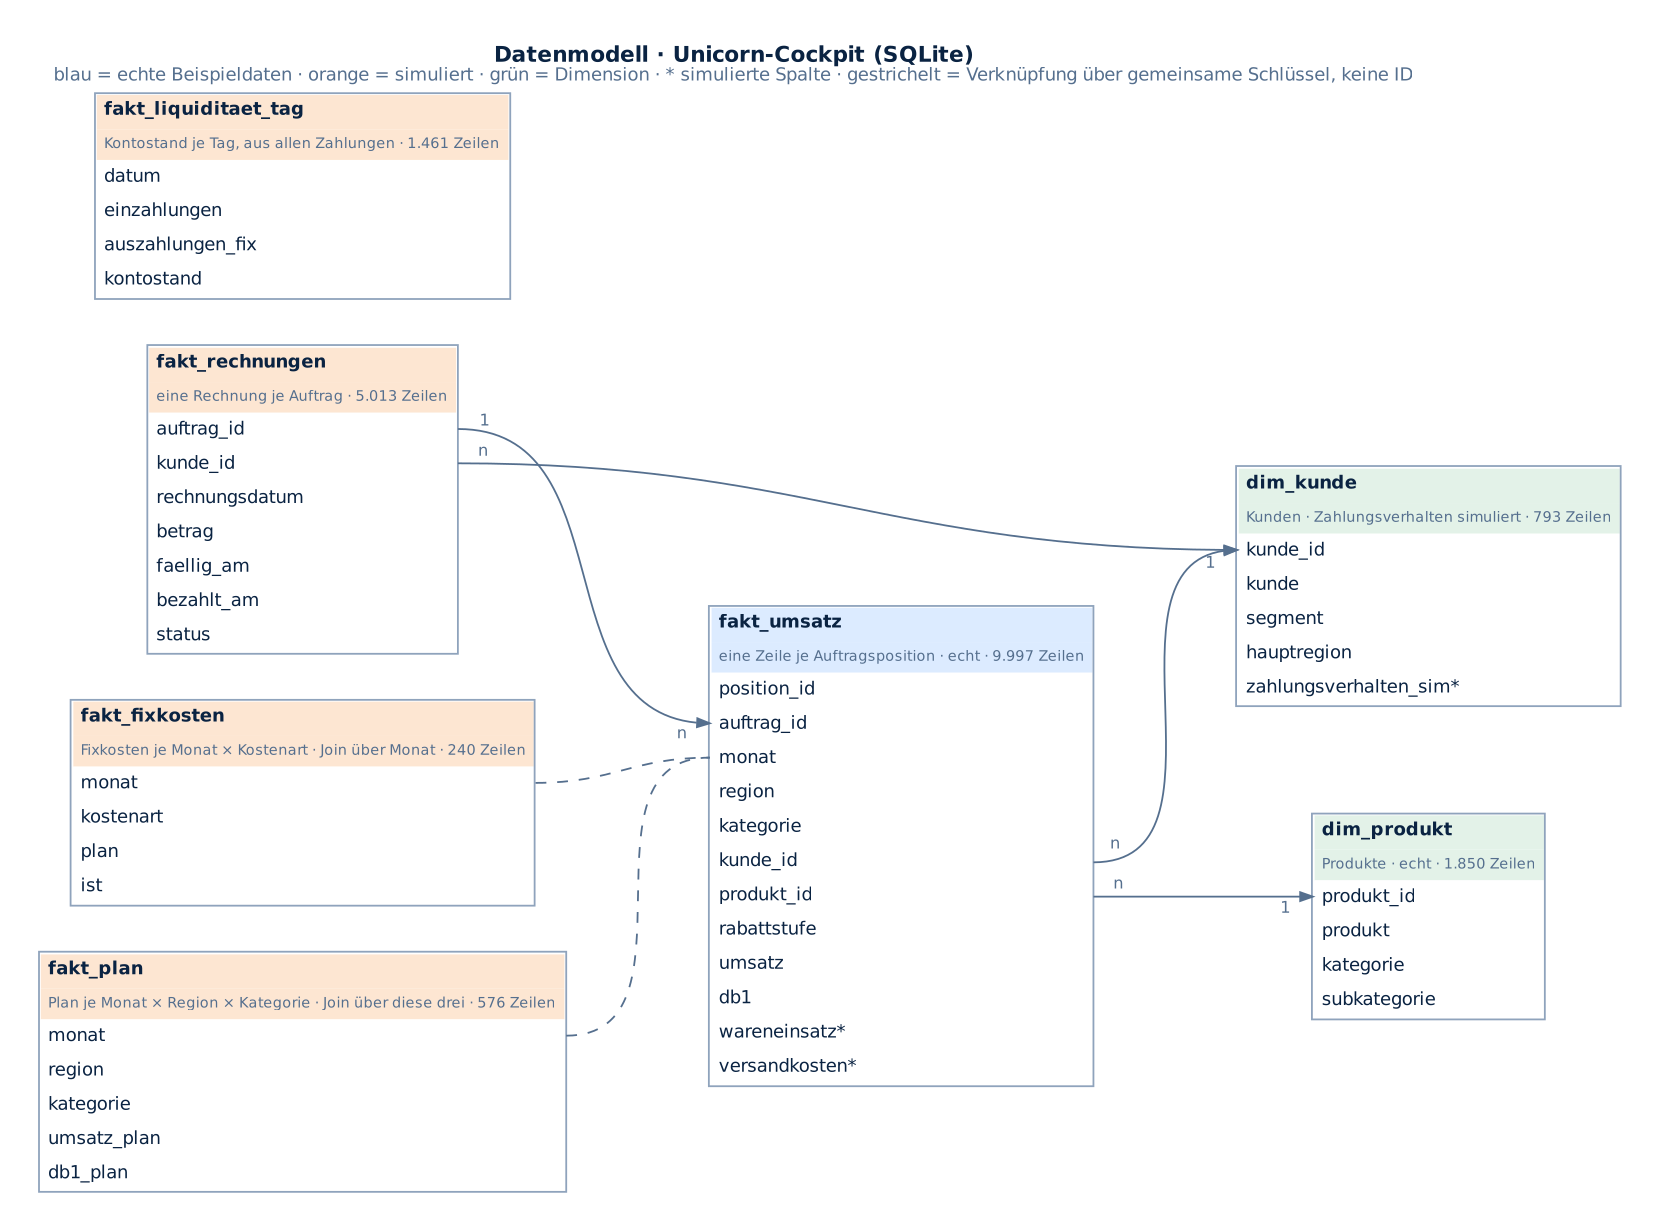
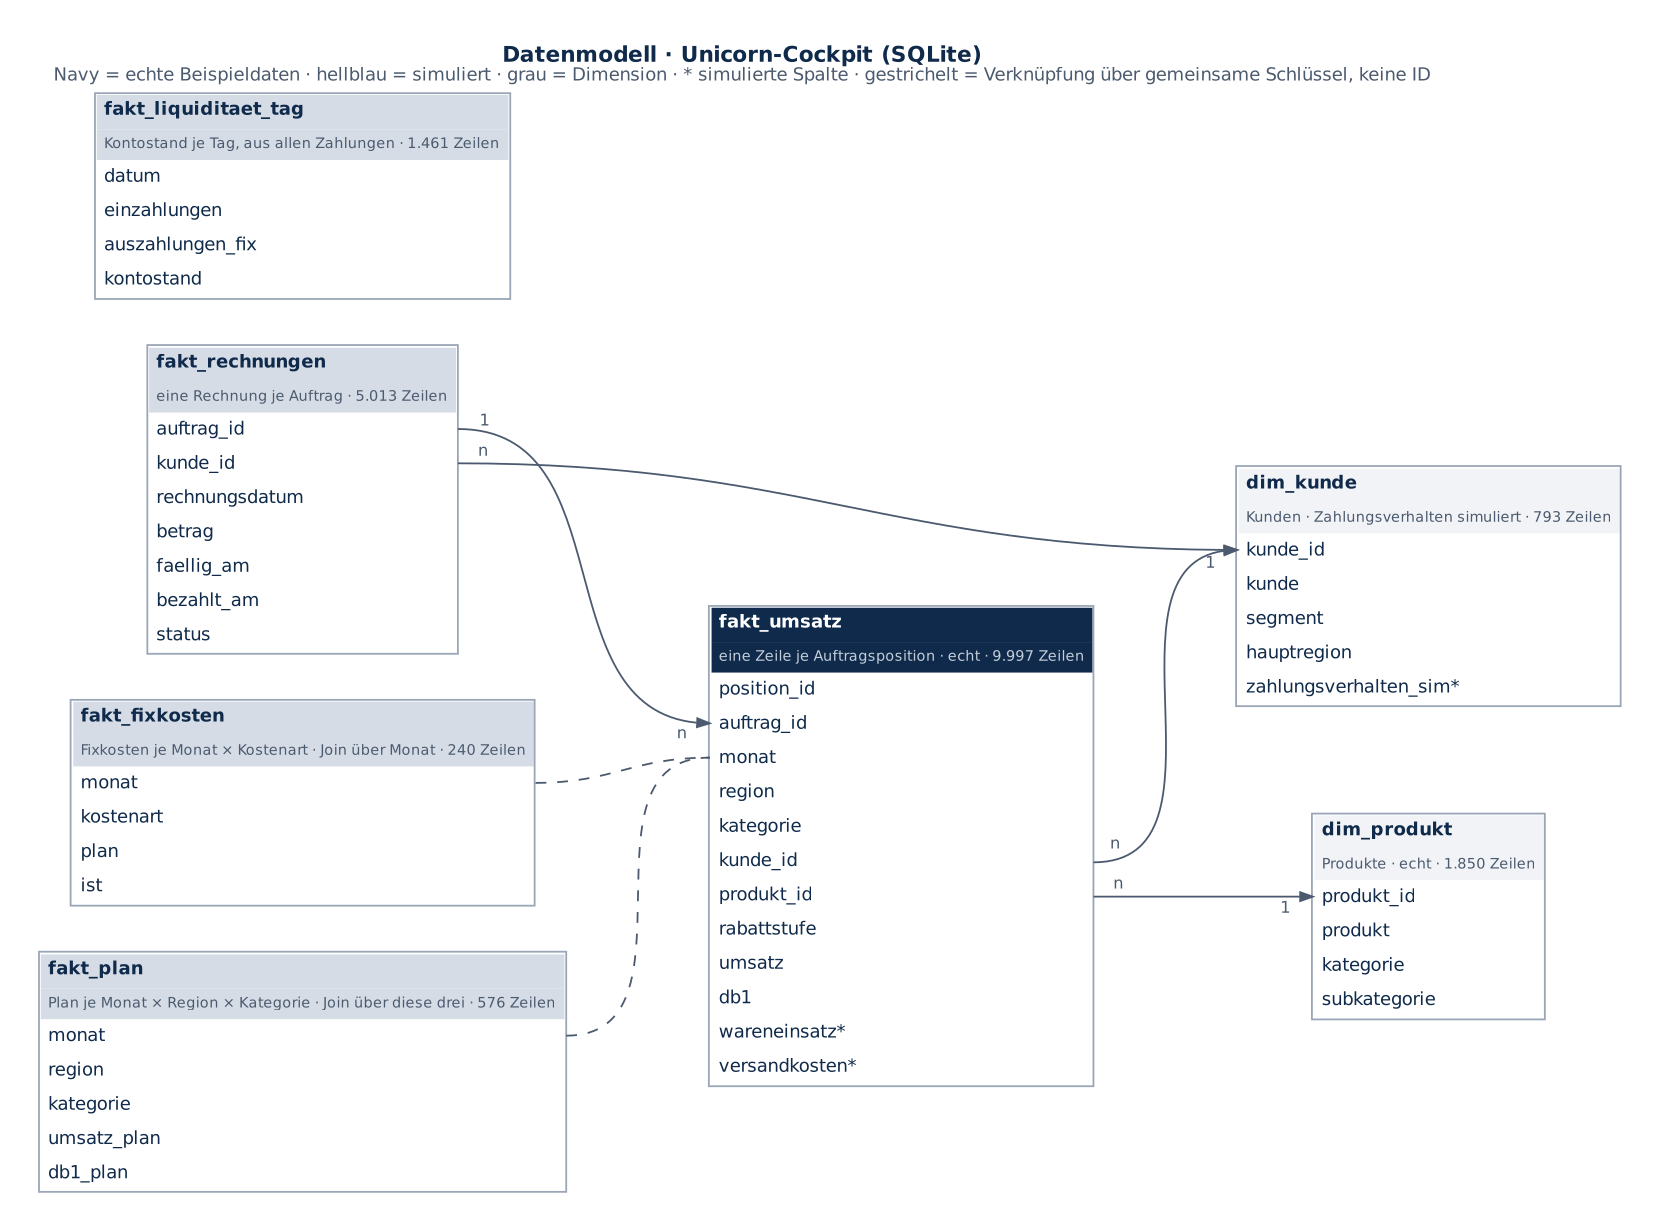
Datenmodell und Vorschaubild im Navy-Design
- docs/erd.py: Kopfzeilen Navy (echt), hellblau (simuliert), grau (Dimension); Legende angepasst
- datenmodell_de/en.png neu erzeugt
- social_preview.png mit aktuellem Überblick-Screenshot und ruhigem Navy-Hintergrund

Claude-Session: https://claude.ai/code/session_0162dXhNYju1JhCPYcZMk4fs

diff --git a/docs/erd.py b/docs/erd.py
@@ -8,7 +8,8 @@ HIER = Path(__file__).resolve().parent
 sys.path.insert(0, str(HIER.parent))
 import logik as L  # noqa: E402
 
-ECHT, SIM, DIM = "#DCEBFF", "#FDE6D2", "#E3F2E8"
+ECHT, SIM, DIM = "#0F2A4A", "#D5DCE6", "#F1F3F6"   # Navy-Design: echt dunkel, simuliert hell, Dimension grau
+KOPF_TEXT = {ECHT: ("white", "#C3CDDA")}          # Titel- und Untertitelfarbe im dunklen Kopf
 TAB = {   # Tabelle: (Farbe, Text DE, Text EN, gezeigte Spalten)
     "fakt_umsatz": (ECHT, "eine Zeile je Auftragsposition · echt", "one row per order line · real",
                     ["position_id", "auftrag_id", "monat", "region", "kategorie", "kunde_id", "produkt_id",
@@ -38,21 +39,22 @@ KANTEN = [   # (von, Spalte, nach, Spalte, Beschriftung DE, EN, gestrichelt = lo
 def dot(sprache: str, zeilen: dict) -> str:
     en = sprache == "en"
     out = ['digraph G {', 'graph [rankdir=LR, bgcolor="white", pad=0.3, nodesep=0.35, ranksep=1.1, '
-           'fontname="Helvetica", fontsize=12, fontcolor="#0A2342", labelloc=t, labeljust=l, label=<'
-           + ("<b>Data model · Unicorn cockpit (SQLite)</b><br/><font point-size='10' color='#556F8E'>"
-              "blue = real sample data · orange = simulated · green = dimension · * simulated column · "
+           'fontname="Helvetica", fontsize=12, fontcolor="#0F2A4A", labelloc=t, labeljust=l, label=<'
+           + ("<b>Data model · Unicorn cockpit (SQLite)</b><br/><font point-size='10' color='#4B5A6E'>"
+              "navy = real sample data · light blue = simulated · grey = dimension · * simulated column · "
               "dashed = join on shared keys, no ID</font>" if en else
-              "<b>Datenmodell · Unicorn-Cockpit (SQLite)</b><br/><font point-size='10' color='#556F8E'>"
-              "blau = echte Beispieldaten · orange = simuliert · grün = Dimension · * simulierte Spalte · "
+              "<b>Datenmodell · Unicorn-Cockpit (SQLite)</b><br/><font point-size='10' color='#4B5A6E'>"
+              "Navy = echte Beispieldaten · hellblau = simuliert · grau = Dimension · * simulierte Spalte · "
               "gestrichelt = Verknüpfung über gemeinsame Schlüssel, keine ID</font>") + '>];',
-           'node [shape=plain, fontname="Helvetica", fontsize=10, fontcolor="#0A2342"];',
-           'edge [color="#556F8E", fontname="Helvetica", fontsize=9, fontcolor="#556F8E", arrowsize=0.7];']
+           'node [shape=plain, fontname="Helvetica", fontsize=10, fontcolor="#0F2A4A"];',
+           'edge [color="#4B5A6E", fontname="Helvetica", fontsize=9, fontcolor="#4B5A6E", arrowsize=0.7];']
     for t, (farbe, de, en_txt, spalten) in TAB.items():
+        kopf, unter = KOPF_TEXT.get(farbe, ("#0F2A4A", "#4B5A6E"))
         n = f"{zeilen[t]:,}".replace(",", "." if not en else ",")
         z = "".join(f'<tr><td port="{c.rstrip("*")}" align="left" bgcolor="white">{c}</td></tr>' for c in spalten)
-        out.append(f'{t} [label=<<table border="1" cellborder="0" cellspacing="0" cellpadding="4" color="#8FA3BC">'
-                   f'<tr><td bgcolor="{farbe}" align="left"><b>{t}</b></td></tr>'
-                   f'<tr><td bgcolor="{farbe}" align="left"><font point-size="8.5" color="#556F8E">'
+        out.append(f'{t} [label=<<table border="1" cellborder="0" cellspacing="0" cellpadding="4" color="#9AA6B6">'
+                   f'<tr><td bgcolor="{farbe}" align="left"><font color="{kopf}"><b>{t}</b></font></td></tr>'
+                   f'<tr><td bgcolor="{farbe}" align="left"><font point-size="8.5" color="{unter}">'
                    f'{en_txt if en else de} · {n} {"rows" if en else "Zeilen"}</font></td></tr>{z}</table>>];')
     for a, ca, b, cb, de, en_txt, gestr in KANTEN:
         if gestr:
